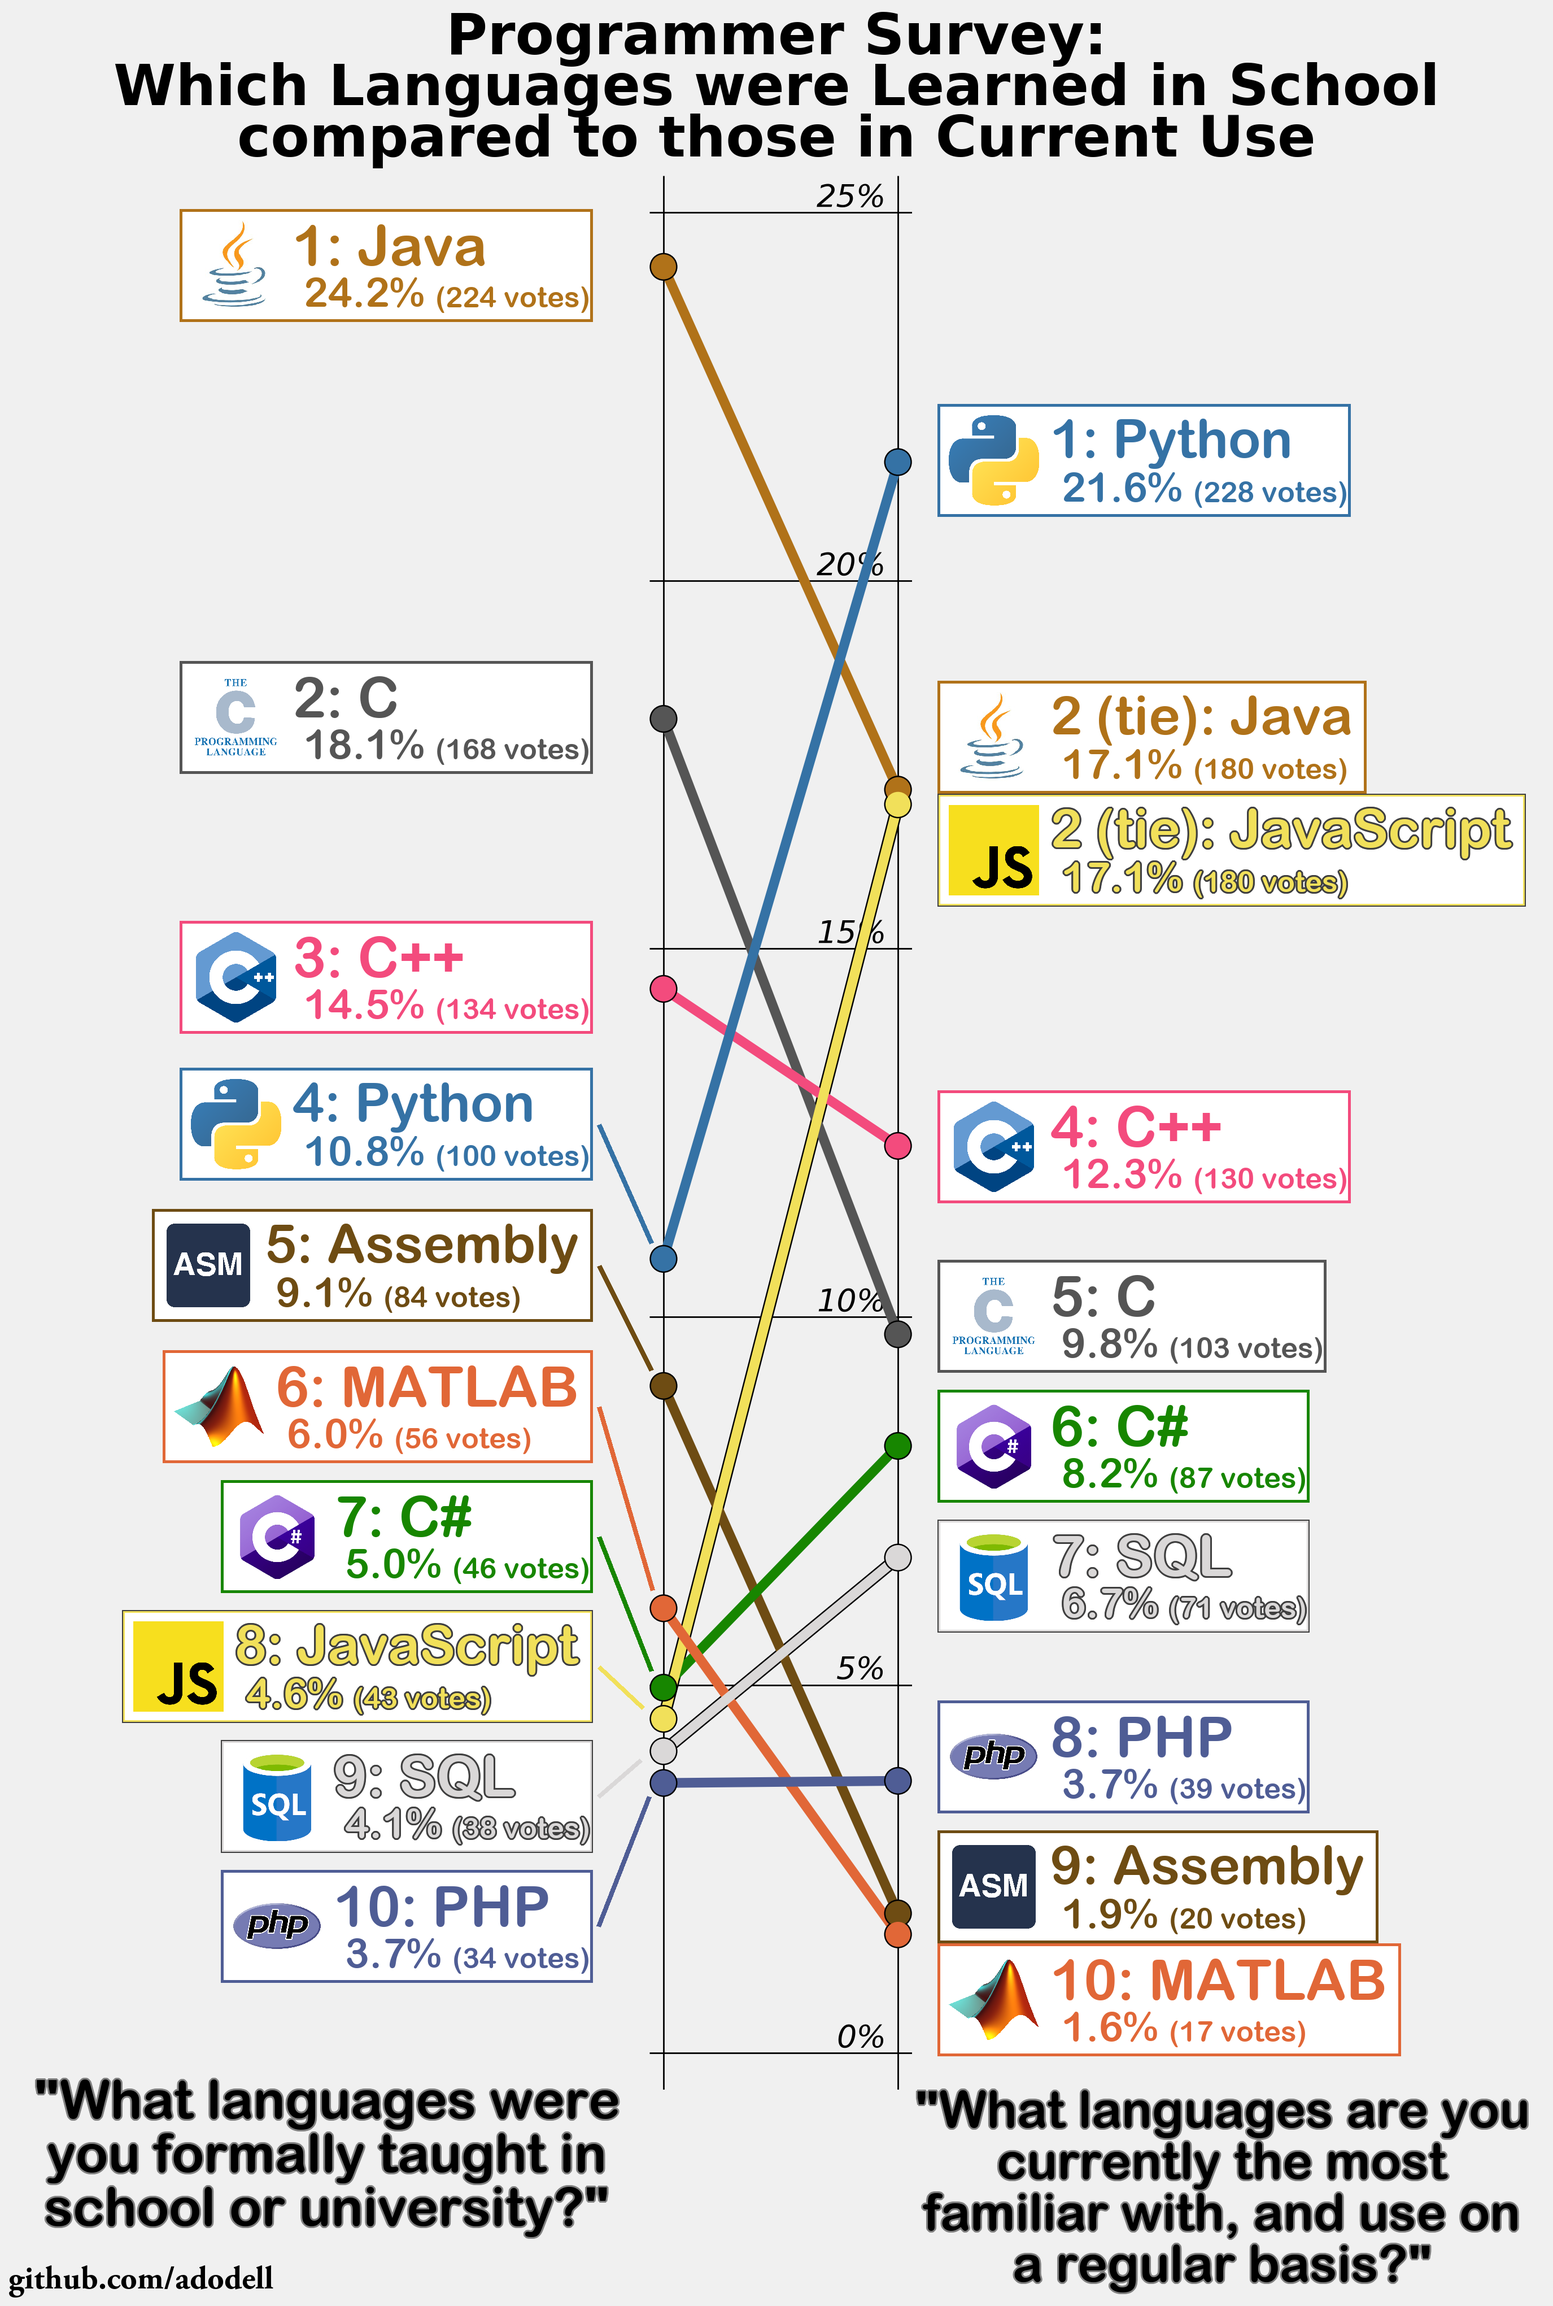
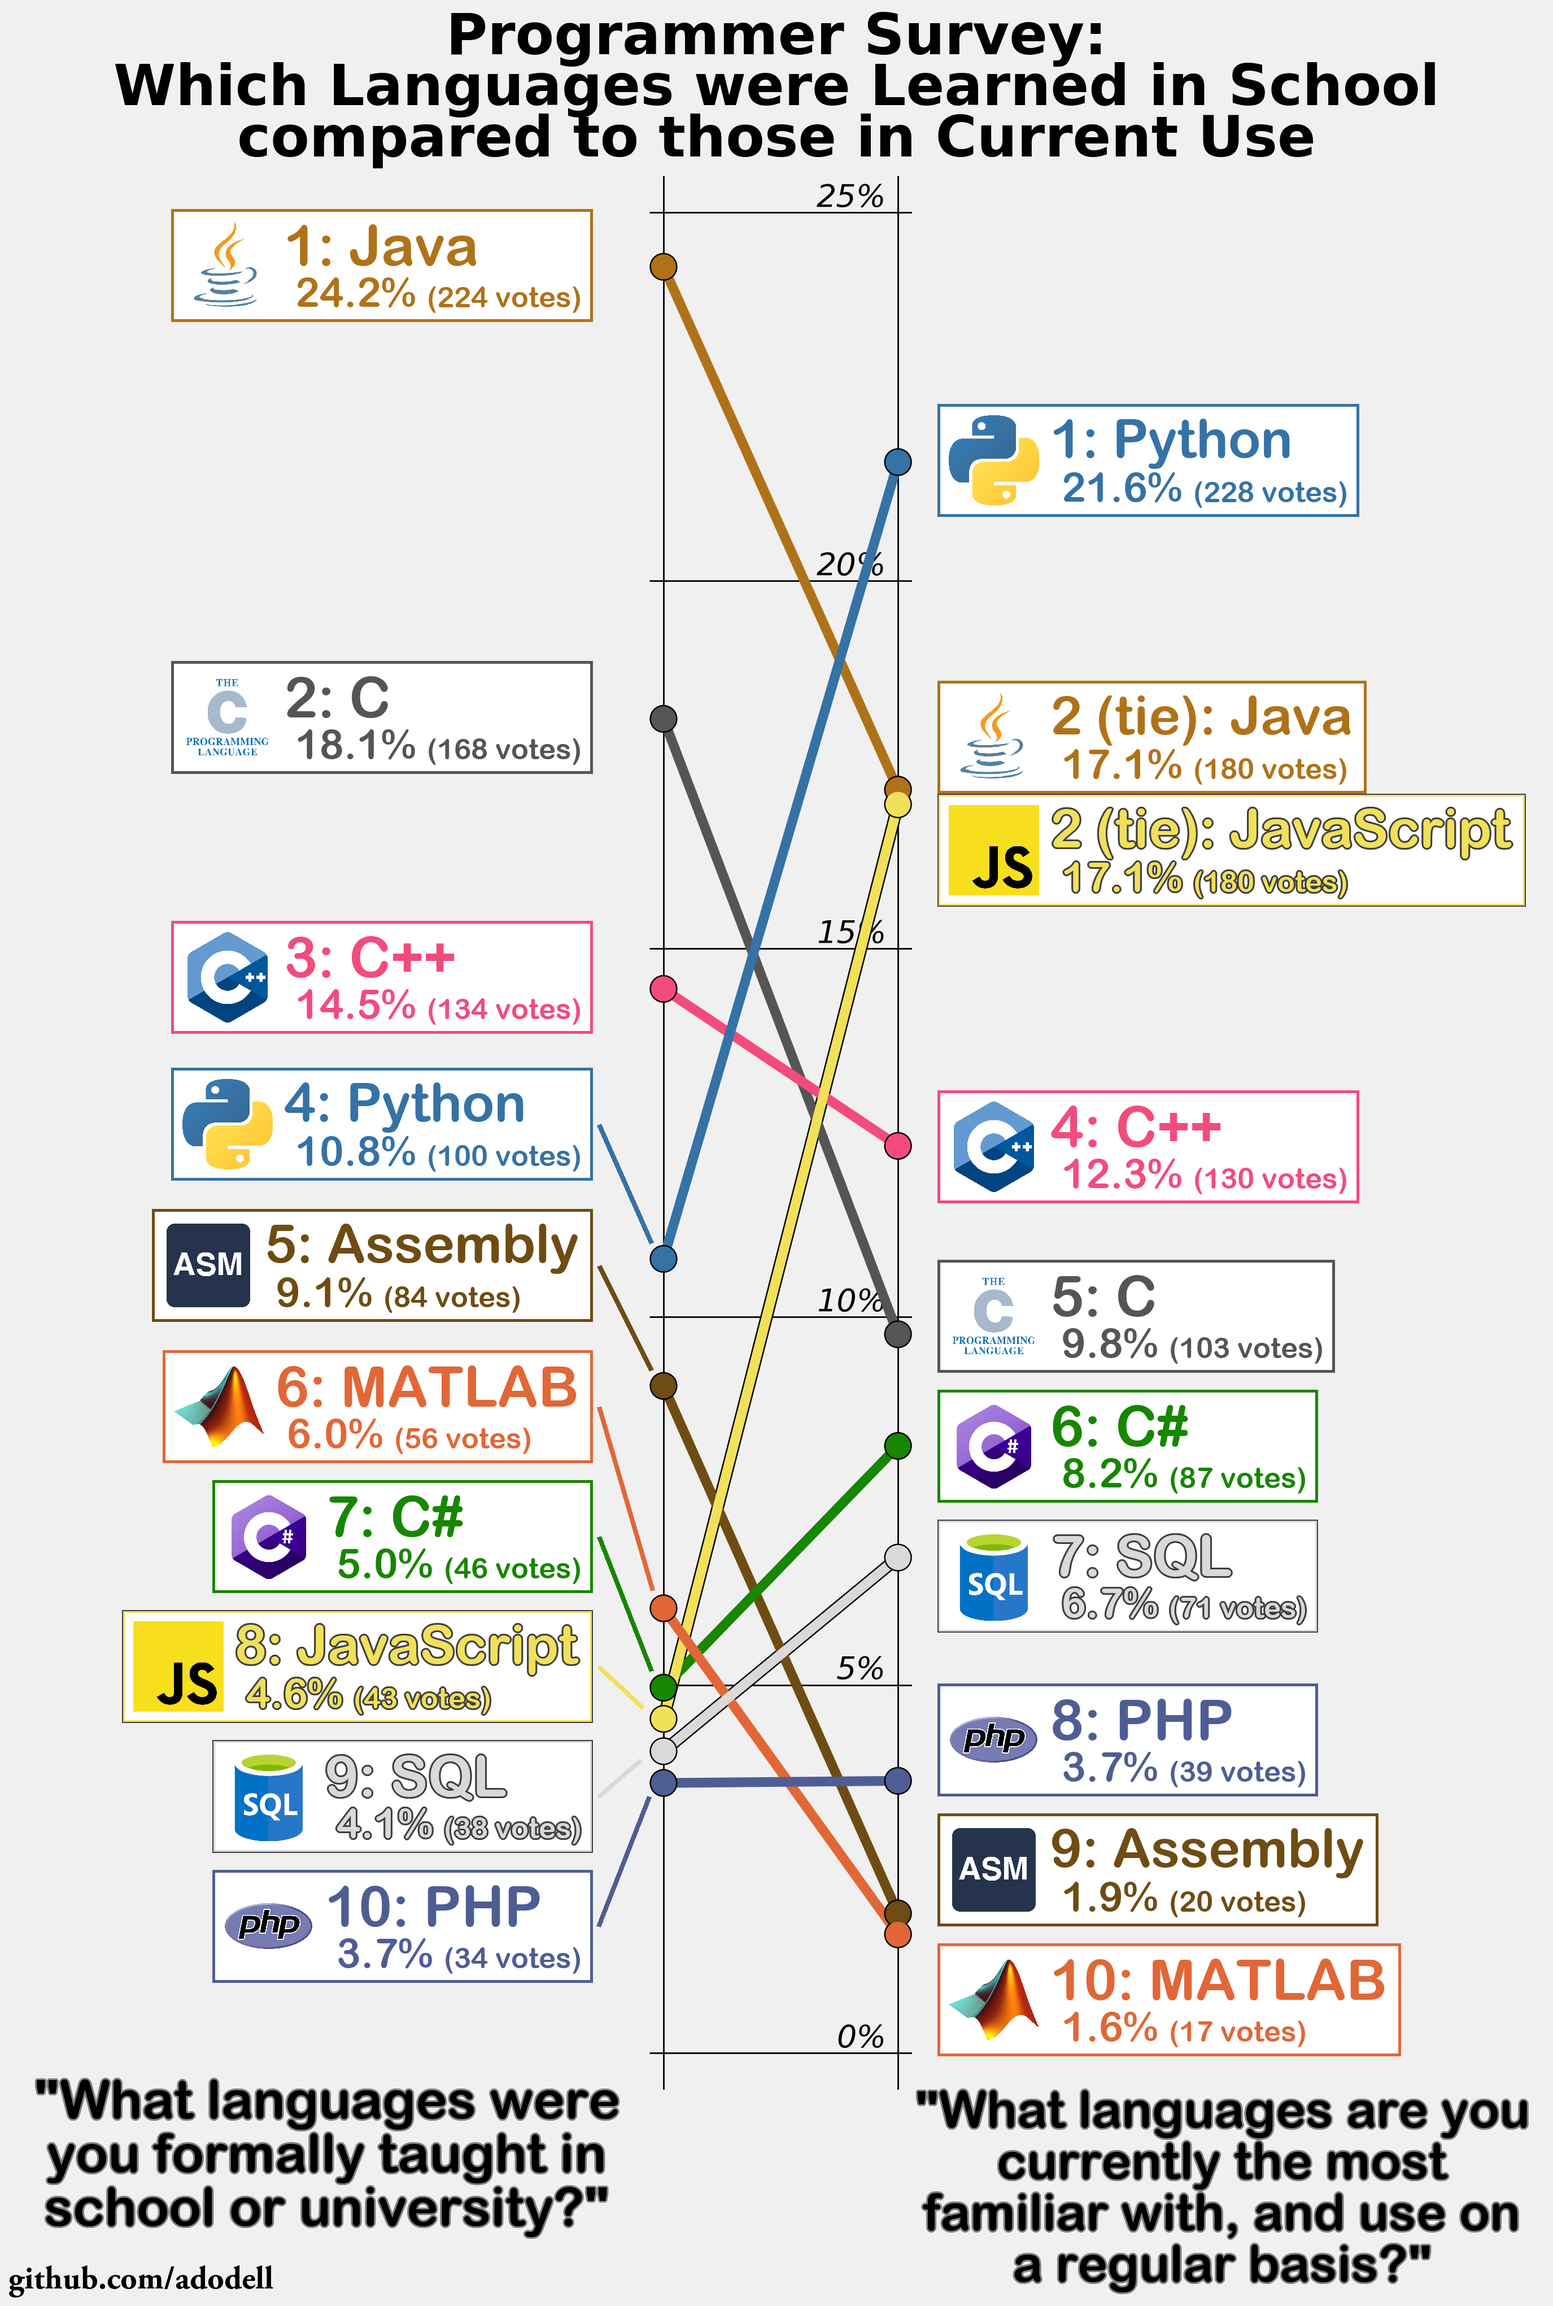
touchups
labels properly wider, spacing between labels improved

diff --git a/SurveyGraph.py b/SurveyGraph.py
@@ -135,7 +135,7 @@ def CreateLangLabelImg_fx(lang_rank, lang_name, vote_percent, vote_count, q_name
 	'''White Background creation'''
 	# determining the width
 	# first, find the longer length between the Title, Perc, and Count
-	farthest_x = max([lang_title_size[0], lang_voteperc_size[0] + lang_votecount_size[0] + 20])
+	farthest_x = max([lang_title_size[0], lang_voteperc_size[0] + lang_votecount_size[0] + 35])
 	
 	# creating Background Size, picking between Farthest Title or Count for the X width
 	background_size = (farthest_x + 215, 190)
@@ -304,8 +304,8 @@ qAndLang_to_plotYPosition_dict = {'Q1Academic_Java': 370, 'Q1Academic_C': 1170,
 								  'Q2Current_Python': 715,  'Q2Current_Java':1205,
 								  'Q2Current_JavaScript': 1405, 'Q2Current_C++': 1930,
 								  'Q2Current_C': 2230, 'Q2Current_C#': 2460,
-								  'Q2Current_SQL': 2690, 'Q2Current_PHP': 3010,
-								  'Q2Current_Assembly': 3240, 'Q2Current_MATLAB': 3440}
+								  'Q2Current_SQL': 2690, 'Q2Current_PHP': 2980,
+								  'Q2Current_Assembly': 3210, 'Q2Current_MATLAB': 3440}
 
 # iterating through each LangLabel image, pasting the Label where it belongs on the ParaPlot
 for qAndLang_str, label_imageObj in labels_imageObj_dict.items():
